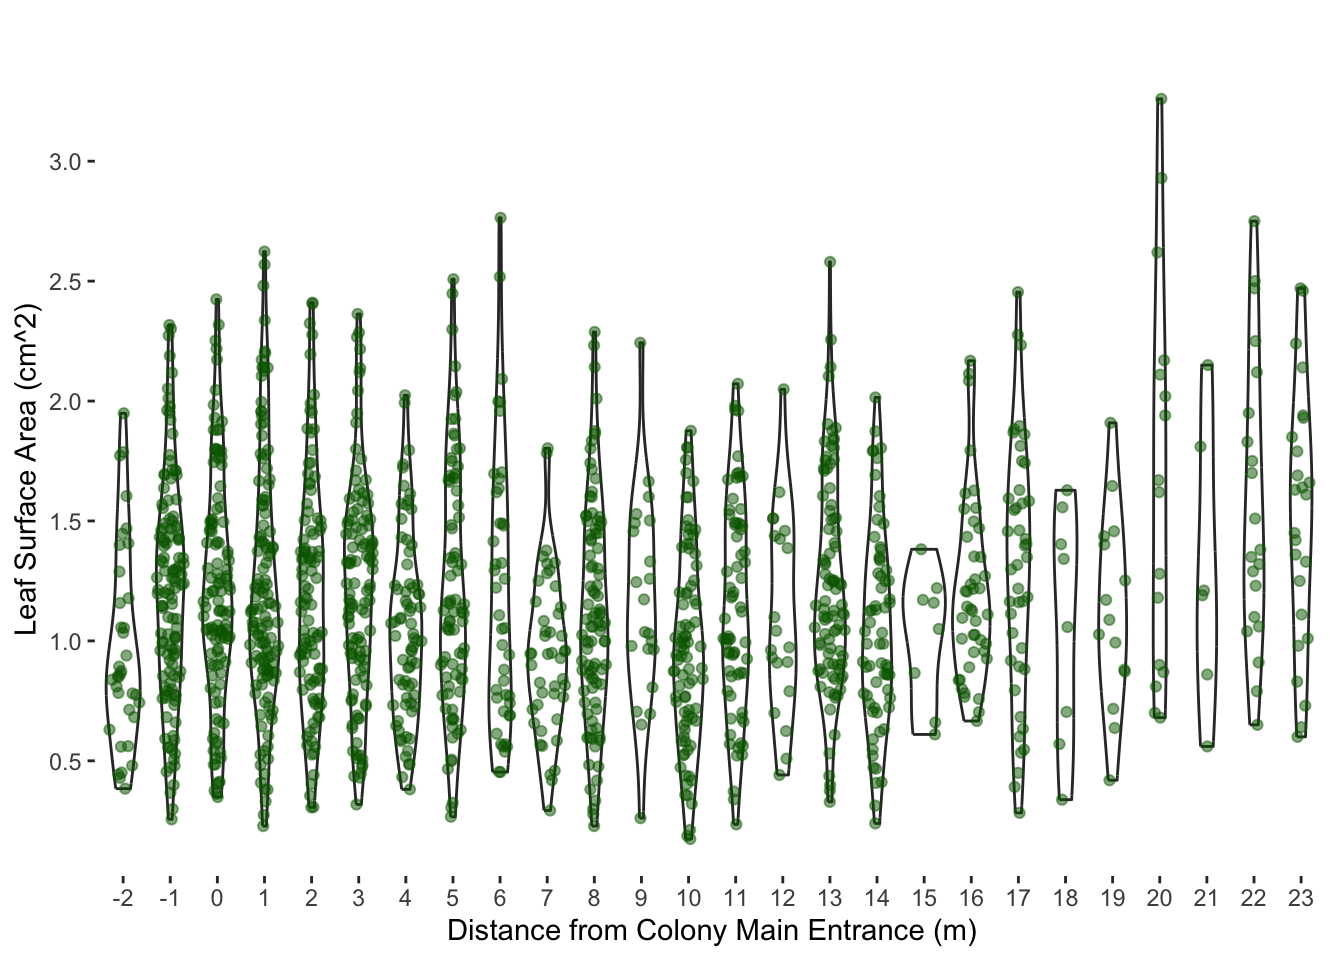
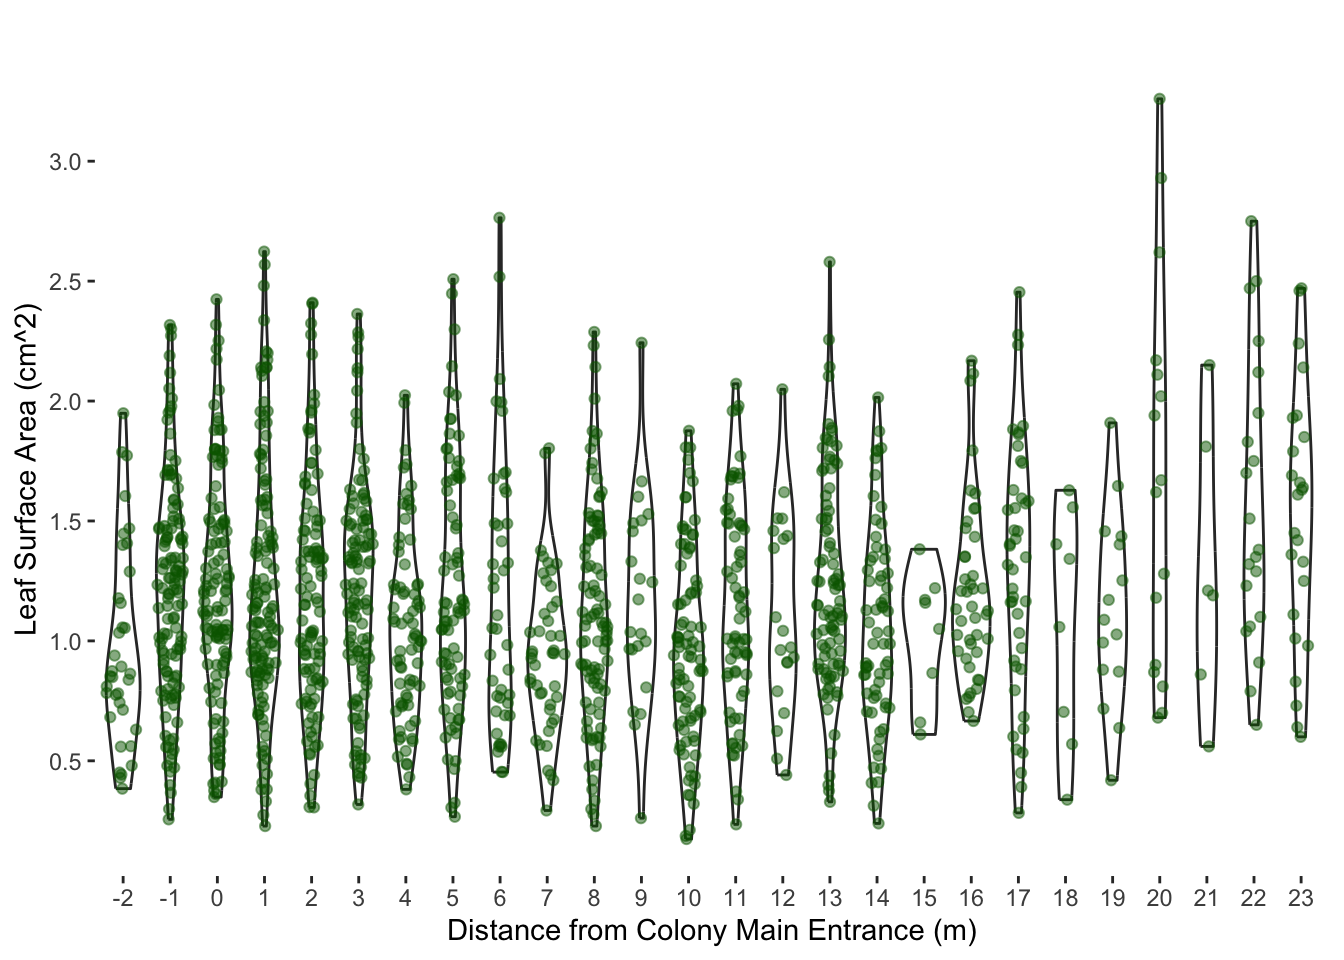
R

diff --git a/Leaf_analysis.html b/Leaf_analysis.html
@@ -221,8 +221,8 @@ pre > code.sourceCode > span > a:first-child::before { text-decoration: underlin
 <span id="cb7-2"><a href="#cb7-2" aria-hidden="true" tabindex="-1"></a><span class="fu">summary</span>(model)</span></code><button title="Copy to Clipboard" class="code-copy-button"><i class="bi"></i></button></pre></div>
 <div class="cell-output cell-output-stdout">
 <pre><code>              Df Sum Sq Mean Sq F value   Pr(&gt;F)    
-Distance      25   28.9  1.1553   3.496 1.46e-08 ***
-Residuals   1528  505.0  0.3305                     
+Distance      25   27.8  1.1121   3.685 2.74e-09 ***
+Residuals   1524  459.9  0.3018                     
 ---
 Signif. codes:  0 '***' 0.001 '**' 0.01 '*' 0.05 '.' 0.1 ' ' 1</code></pre>
 </div>
@@ -236,40 +236,40 @@ Signif. codes:  0 '***' 0.001 '**' 0.01 '*' 0.05 '.' 0.1 ' ' 1</code></pre>
 <div class="cell-output cell-output-stdout">
 <pre><code>$statistics
     MSerror   Df     Mean       CV
-  0.3304655 1528 1.228566 46.79126
+  0.3017987 1524 1.220206 45.02206
 
 $parameters
    test   name.t ntr StudentizedRange alpha
-  Tukey Distance  26          5.21071  0.05
+  Tukey Distance  26         5.210735  0.05
 
 $means
         Area       std   r         se   Min   Max     Q25    Q50     Q75
--1 1.2685682 0.5440600 132 0.05003526 0.256 3.186 0.89475 1.2440 1.50225
--2 1.0075946 0.4666685  37 0.09450662 0.384 2.343 0.71300 0.8630 1.28900
-0  1.3095806 0.6564874 124 0.05162407 0.349 4.462 0.94325 1.2070 1.55200
-1  1.3181765 0.7173651 136 0.04929395 0.228 5.486 0.88450 1.1385 1.59175
-10 1.0106136 0.5150416  88 0.06128042 0.174 3.567 0.67525 0.9515 1.26750
-11 1.1398406 0.4386382  69 0.06920517 0.235 2.072 0.86000 1.0930 1.48900
-12 1.1920952 0.5417438  21 0.12544502 0.441 2.744 0.90900 1.0420 1.45900
-13 1.2853053 0.5317337  95 0.05897953 0.329 3.052 0.90550 1.1500 1.58600
-14 1.1091429 0.4891396  70 0.06870907 0.239 2.530 0.77425 1.0370 1.34800
-15 1.1121111 0.3901543   9 0.19162044 0.610 1.891 0.86600 1.1590 1.22000
-16 1.2313409 0.4054133  44 0.08666361 0.666 2.338 0.95600 1.1375 1.44300
-17 1.3291778 0.5662934  45 0.08569527 0.283 2.833 0.91800 1.3490 1.62900
-18 1.2903333 0.7899096   9 0.19162044 0.338 3.013 0.70400 1.3420 1.55700
-19 1.1270667 0.4003059  15 0.14842856 0.419 1.909 0.87600 1.0880 1.41900
-2  1.2437477 0.5679338 107 0.05557394 0.306 3.467 0.84200 1.1770 1.50250
-20 1.9064706 1.2458729  17 0.13942435 0.680 5.650 0.90000 1.6700 2.17000
-21 1.6171429 1.0047838   7 0.21727716 0.560 3.540 1.02500 1.2100 1.98000
-22 1.5690476 0.5954150  21 0.12544502 0.650 2.750 1.10000 1.3800 1.95000
-23 1.5104000 0.5356575  25 0.11497226 0.600 2.470 1.11000 1.6100 1.85000
-3  1.2631379 0.5508285 116 0.05337453 0.318 4.060 0.92625 1.2365 1.50200
-4  1.1206974 0.5026705  76 0.06594112 0.381 3.299 0.77125 1.0505 1.33225
-5  1.2599390 0.6813044  82 0.06348281 0.267 5.320 0.84500 1.1240 1.66900
-6  1.1871860 0.5744438  43 0.08766553 0.453 2.764 0.72350 1.0540 1.55500
-7  0.9659348 0.3553319  46 0.08475868 0.293 1.912 0.74200 0.9470 1.15825
-8  1.1664694 0.5291474  98 0.05806976 0.228 3.100 0.82975 1.0830 1.47700
-9  1.1631364 0.4310594  22 0.12256085 0.261 2.243 0.96475 1.1050 1.48250
+-1 1.2685682 0.5440600 132 0.04781583 0.256 3.186 0.89475 1.2440 1.50225
+-2 1.0075946 0.4666685  37 0.09031457 0.384 2.343 0.71300 0.8630 1.28900
+0  1.3095806 0.6564874 124 0.04933417 0.349 4.462 0.94325 1.2070 1.55200
+1  1.2668134 0.5776422 134 0.04745765 0.228 3.100 0.88350 1.1340 1.58075
+10 1.0106136 0.5150416  88 0.05856219 0.174 3.567 0.67525 0.9515 1.26750
+11 1.1398406 0.4386382  69 0.06613542 0.235 2.072 0.86000 1.0930 1.48900
+12 1.1920952 0.5417438  21 0.11988063 0.441 2.744 0.90900 1.0420 1.45900
+13 1.2853053 0.5317337  95 0.05636336 0.329 3.052 0.90550 1.1500 1.58600
+14 1.1091429 0.4891396  70 0.06566133 0.239 2.530 0.77425 1.0370 1.34800
+15 1.1121111 0.3901543   9 0.18312069 0.610 1.891 0.86600 1.1590 1.22000
+16 1.2313409 0.4054133  44 0.08281945 0.666 2.338 0.95600 1.1375 1.44300
+17 1.3291778 0.5662934  45 0.08189406 0.283 2.833 0.91800 1.3490 1.62900
+18 1.2903333 0.7899096   9 0.18312069 0.338 3.013 0.70400 1.3420 1.55700
+19 1.1270667 0.4003059  15 0.14184468 0.419 1.909 0.87600 1.0880 1.41900
+2  1.2268774 0.5430265 106 0.05335876 0.306 3.467 0.84100 1.1690 1.49575
+20 1.9064706 1.2458729  17 0.13323987 0.680 5.650 0.90000 1.6700 2.17000
+21 1.6171429 1.0047838   7 0.20763935 0.560 3.540 1.02500 1.2100 1.98000
+22 1.5690476 0.5954150  21 0.11988063 0.650 2.750 1.10000 1.3800 1.95000
+23 1.5104000 0.5356575  25 0.10987241 0.600 2.470 1.11000 1.6100 1.85000
+3  1.2631379 0.5508285 116 0.05100699 0.318 4.060 0.92625 1.2365 1.50200
+4  1.1206974 0.5026705  76 0.06301615 0.381 3.299 0.77125 1.0505 1.33225
+5  1.2098148 0.5112562  81 0.06104023 0.267 2.508 0.84400 1.1210 1.66300
+6  1.1871860 0.5744438  43 0.08377693 0.453 2.764 0.72350 1.0540 1.55500
+7  0.9659348 0.3553319  46 0.08099902 0.293 1.912 0.74200 0.9470 1.15825
+8  1.1664694 0.5291474  98 0.05549395 0.228 3.100 0.82975 1.0830 1.47700
+9  1.1631364 0.4310594  22 0.11712439 0.261 2.243 0.96475 1.1050 1.48250
 
 $comparison
 NULL
@@ -280,16 +280,16 @@ $groups
 21 1.6171429     ab
 22 1.5690476     ab
 23 1.5104000     ab
-17 1.3291778     ab
-1  1.3181765      b
+17 1.3291778      b
 0  1.3095806      b
 18 1.2903333      b
 13 1.2853053      b
 -1 1.2685682      b
+1  1.2668134      b
 3  1.2631379      b
-5  1.2599390      b
-2  1.2437477      b
 16 1.2313409      b
+2  1.2268774      b
+5  1.2098148      b
 12 1.1920952      b
 6  1.1871860      b
 8  1.1664694      b
@@ -462,13 +462,13 @@ attr(,"class")
 <h3 class="anchored" data-anchor-id="make-a-bar-chart-without-outliers">Make a bar chart without outliers</h3>
 <div class="cell">
 <div class="sourceCode cell-code" id="cb20"><pre class="sourceCode r code-with-copy"><code class="sourceCode r"><span id="cb20-1"><a href="#cb20-1" aria-hidden="true" tabindex="-1"></a><span class="co"># Calculate means and standard errors using dplyr</span></span>
-<span id="cb20-2"><a href="#cb20-2" aria-hidden="true" tabindex="-1"></a>summary_data <span class="ot">&lt;-</span> df_no_outliers <span class="sc">%&gt;%</span></span>
+<span id="cb20-2"><a href="#cb20-2" aria-hidden="true" tabindex="-1"></a>summary_data2 <span class="ot">&lt;-</span> df_no_outliers <span class="sc">%&gt;%</span></span>
 <span id="cb20-3"><a href="#cb20-3" aria-hidden="true" tabindex="-1"></a>  <span class="fu">group_by</span>(Distance) <span class="sc">%&gt;%</span></span>
 <span id="cb20-4"><a href="#cb20-4" aria-hidden="true" tabindex="-1"></a>  <span class="fu">summarize</span>(<span class="at">Mean =</span> <span class="fu">mean</span>(Area, <span class="at">na.rm =</span> <span class="cn">TRUE</span>),</span>
 <span id="cb20-5"><a href="#cb20-5" aria-hidden="true" tabindex="-1"></a>            <span class="at">SE =</span> <span class="fu">sd</span>(Area, <span class="at">na.rm =</span> <span class="cn">TRUE</span>) <span class="sc">/</span> <span class="fu">sqrt</span>(<span class="fu">sum</span>(<span class="sc">!</span><span class="fu">is.na</span>(Area))))</span>
 <span id="cb20-6"><a href="#cb20-6" aria-hidden="true" tabindex="-1"></a></span>
-<span id="cb20-7"><a href="#cb20-7" aria-hidden="true" tabindex="-1"></a><span class="fu">ggplot</span>(summary_data, <span class="fu">aes</span>(<span class="at">x =</span> Distance, <span class="at">y =</span> Mean, <span class="at">fill =</span> <span class="fu">factor</span>(Distance))) <span class="sc">+</span></span>
-<span id="cb20-8"><a href="#cb20-8" aria-hidden="true" tabindex="-1"></a>  <span class="fu">geom_bar</span>(<span class="at">stat =</span> <span class="st">"identity"</span>, <span class="at">position =</span> <span class="st">"dodge"</span>, <span class="at">fill =</span> <span class="fu">ifelse</span>(summary_data<span class="sc">$</span>Distance <span class="sc">==</span> <span class="st">"0"</span>, <span class="st">"firebrick3"</span>, <span class="st">"darkslategray4"</span>)) <span class="sc">+</span></span>
+<span id="cb20-7"><a href="#cb20-7" aria-hidden="true" tabindex="-1"></a><span class="fu">ggplot</span>(summary_data2, <span class="fu">aes</span>(<span class="at">x =</span> Distance, <span class="at">y =</span> Mean, <span class="at">fill =</span> <span class="fu">factor</span>(Distance))) <span class="sc">+</span></span>
+<span id="cb20-8"><a href="#cb20-8" aria-hidden="true" tabindex="-1"></a>  <span class="fu">geom_bar</span>(<span class="at">stat =</span> <span class="st">"identity"</span>, <span class="at">position =</span> <span class="st">"dodge"</span>, <span class="at">fill =</span> <span class="fu">ifelse</span>(summary_data2<span class="sc">$</span>Distance <span class="sc">==</span> <span class="st">"0"</span>, <span class="st">"firebrick3"</span>, <span class="st">"darkslategray4"</span>)) <span class="sc">+</span></span>
 <span id="cb20-9"><a href="#cb20-9" aria-hidden="true" tabindex="-1"></a>  <span class="fu">geom_errorbar</span>(<span class="fu">aes</span>(<span class="at">ymin =</span> Mean <span class="sc">-</span> SE, <span class="at">ymax =</span> Mean <span class="sc">+</span> SE), <span class="at">position =</span> <span class="fu">position_dodge</span>(<span class="at">width =</span> <span class="fl">0.8</span>), <span class="at">width =</span> <span class="fl">0.25</span>) <span class="sc">+</span></span>
 <span id="cb20-10"><a href="#cb20-10" aria-hidden="true" tabindex="-1"></a>  <span class="fu">labs</span>(<span class="at">title =</span> <span class="st">""</span>,</span>
 <span id="cb20-11"><a href="#cb20-11" aria-hidden="true" tabindex="-1"></a>       <span class="at">x =</span> <span class="st">"Distance from Colony Main Entrance (m)"</span>,</span>
@@ -528,30 +528,30 @@ attr(,"class")
 <span id="cb22-30"><a href="#cb22-30" aria-hidden="true" tabindex="-1"></a><span class="fu">print</span>(quadrat_data, <span class="at">row.names =</span> <span class="cn">FALSE</span>)</span></code><button title="Copy to Clipboard" class="code-copy-button"><i class="bi"></i></button></pre></div>
 <div class="cell-output cell-output-stdout">
 <pre><code> Distance (m) Avg Area (cm²) Mass (g) Count     g/leaf      g/cm²
-           -2      0.9705000      0.7    37 0.01891892 0.01949399
-           -1      1.2076693      4.0   132 0.03030303 0.02509216
-            0      1.2087288      4.0   124 0.03225806 0.02668759
-            1      1.2189231      3.9   136 0.02867647 0.02352607
-            2      1.1928654      3.7   107 0.03457944 0.02898855
-            3      1.2126637      2.5   116 0.02155172 0.01777222
-            4      1.0555205      1.2    76 0.01578947 0.01495894
+           -2      1.0075946      0.7    37 0.01891892 0.01877632
+           -1      1.2685682      4.0   132 0.03030303 0.02388759
+            0      1.3095806      4.0   124 0.03225806 0.02463236
+            1      1.2668134      3.9   136 0.02867647 0.02263670
+            2      1.2268774      3.7   107 0.03457944 0.02818492
+            3      1.2631379      2.5   116 0.02155172 0.01706205
+            4      1.1206974      1.2    76 0.01578947 0.01408897
             5      1.2098148      2.6    82 0.03170732 0.02620841
             6      1.1871860      1.0    43 0.02325581 0.01958902
-            7      0.9449111      0.6    46 0.01304348 0.01380392
-            8      1.1166316      2.8    98 0.02857143 0.02558716
+            7      0.9659348      0.6    46 0.01304348 0.01350348
+            8      1.1664694      2.8    98 0.02857143 0.02449394
             9      1.1631364      0.5    22 0.02272727 0.01953965
-           10      0.9641163      1.4    88 0.01590909 0.01650122
+           10      1.0106136      1.4    88 0.01590909 0.01574201
            11      1.1398406      1.8    69 0.02608696 0.02288650
-           12      1.1145000      0.5    21 0.02380952 0.02136341
-           13      1.2307174      2.1    95 0.02210526 0.01796128
-           14      1.0506418      1.3    70 0.01857143 0.01767627
-           15      1.0147500      0.3     9 0.03333333 0.03284881
-           16      1.2056047      0.9    44 0.02045455 0.01696621
-           17      1.2950000      1.3    45 0.02888889 0.02230802
-           18      1.0750000      0.2     9 0.02222222 0.02067183
+           12      1.1920952      0.5    21 0.02380952 0.01997284
+           13      1.2853053      2.1    95 0.02210526 0.01719845
+           14      1.1091429      1.3    70 0.01857143 0.01674395
+           15      1.1121111      0.3     9 0.03333333 0.02997302
+           16      1.2313409      0.9    44 0.02045455 0.01661160
+           17      1.3291778      1.3    45 0.02888889 0.02173441
+           18      1.2903333      0.2     9 0.02222222 0.01722208
            19      1.1270667      0.3    15 0.02000000 0.01774518
-           20      1.6725000      0.8    17 0.04705882 0.02813682
-           21      1.2966667      0.2     7 0.02857143 0.02203452
+           20      1.9064706      0.8    17 0.04705882 0.02468374
+           21      1.6171429      0.2     7 0.02857143 0.01766784
            22      1.5690476      0.4    21 0.01904762 0.01213961
            23      1.5104000      0.5    25 0.02000000 0.01324153</code></pre>
 </div>
